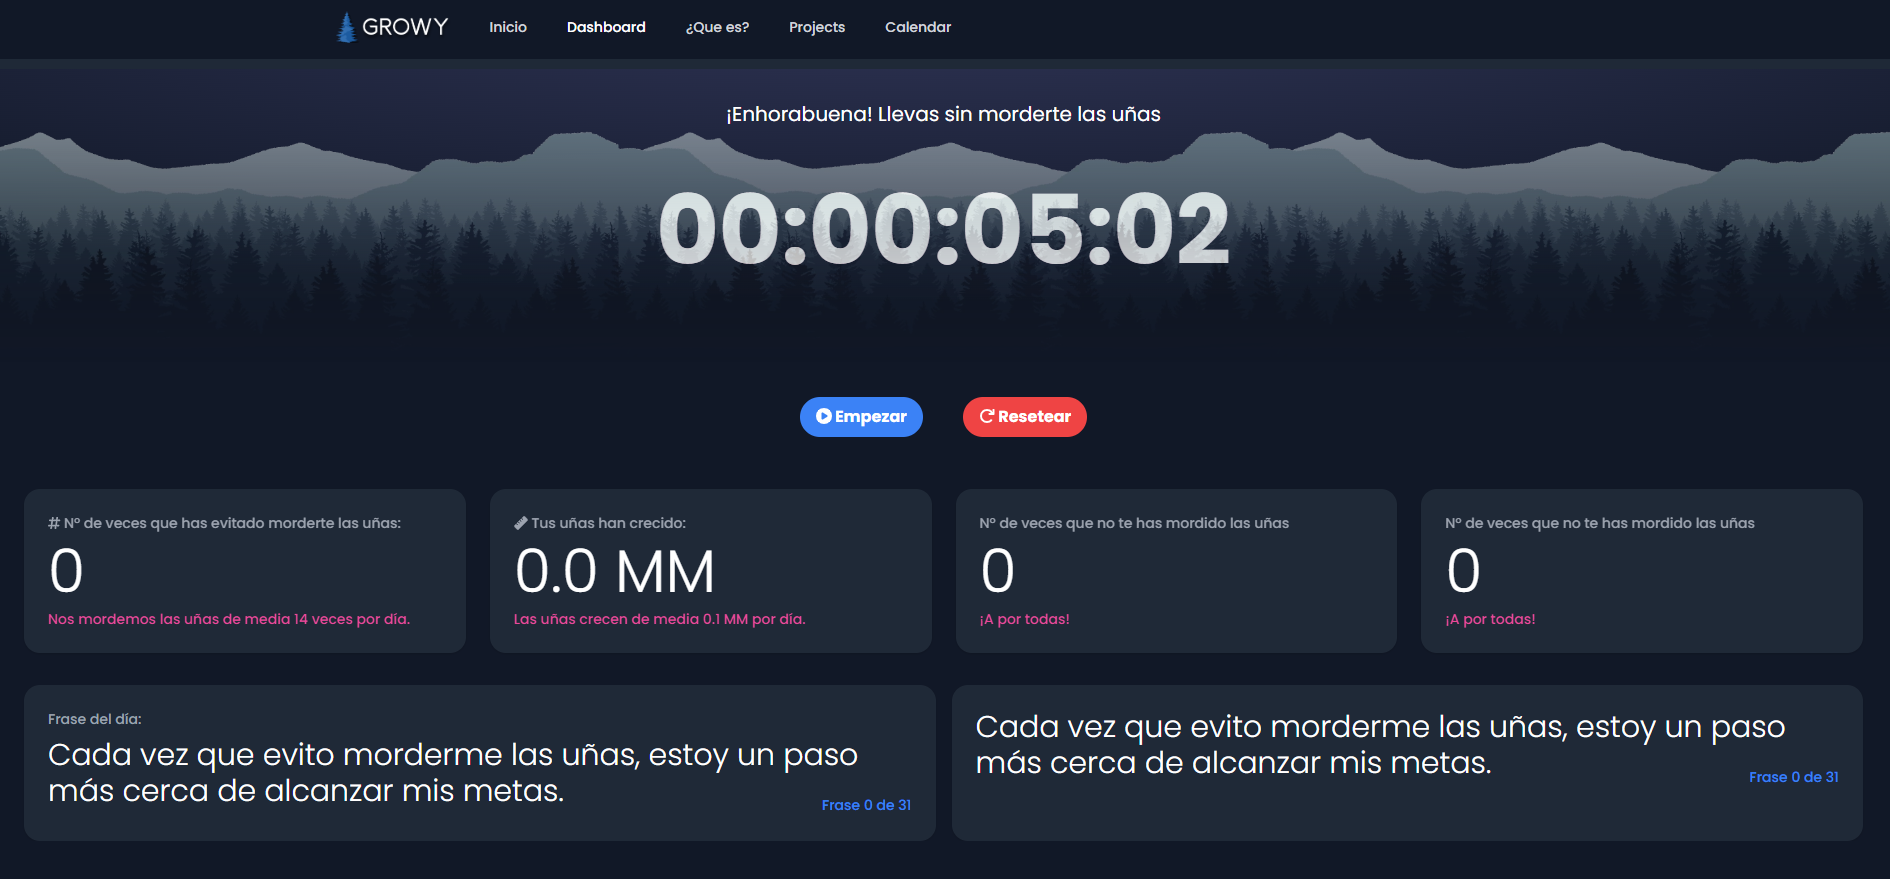
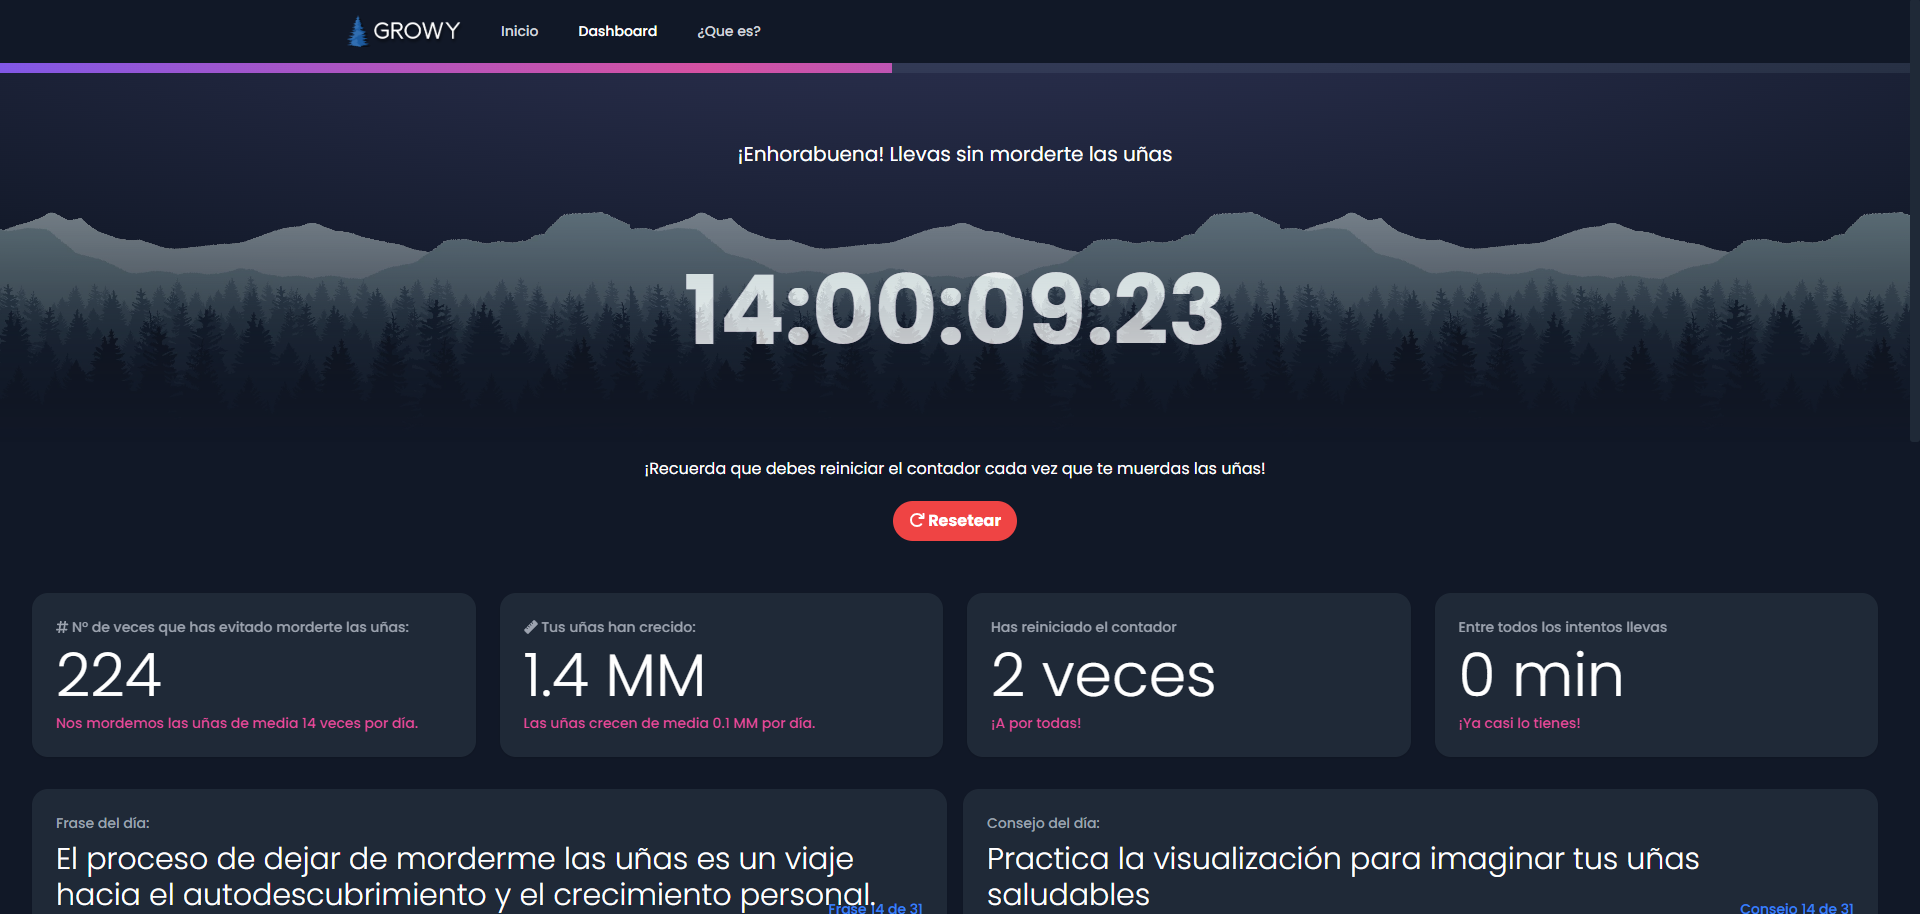
More fixes

diff --git a/src/app/components/heroComponent/heroComponent.js b/src/app/components/heroComponent/heroComponent.js
@@ -13,28 +13,6 @@ export default function HeroComponent() {
               <a href="https://pagedone.io/" className="flex items-center">
                 <img className='h-9' src='/assets/logo.png' />
               </a>
-              <button
-                data-collapse-toggle="navbar"
-                type="button"
-                className="inline-flex items-center p-2 ml-3 text-sm text-gray-500 rounded-lg lg:hidden hover:bg-gray-100 focus:outline-none focus:ring-2 focus:ring-gray-200"
-                aria-controls="navbar-default"
-                aria-expanded="false"
-              >
-                <span className="sr-only">Open main menu</span>
-                <svg
-                  className="w-6 h-6"
-                  aria-hidden="true"
-                  fill="currentColor"
-                  viewBox="0 0 20 20"
-                  xmlns="http://www.w3.org/2000/svg"
-                >
-                  <path
-                    fillRule="evenodd"
-                    d="M3 5a1 1 0 011-1h12a1 1 0 110 2H4a1 1 0 01-1-1zM3 10a1 1 0 011-1h12a1 1 0 110 2H4a1 1 0 01-1-1zM3 15a1 1 0 011-1h12a1 1 0 110 2H4a1 1 0 01-1-1z"
-                    clipRule="evenodd"
-                  ></path>
-                </svg>
-              </button>
             </div>
             <div
               className="hidden w-full lg:flex justify-between max-lg:bg-white py-5 max-lg:mt-1 max-lg:px-4 max-lg:shadow-lg max-lg:shadow-gray-200 max-lg:h-auto max-lg:overflow-auto transition-all duration-500 delay-200 "

diff --git a/src/app/components/counterComponent/counterComponent.js b/src/app/components/counterComponent/counterComponent.js
@@ -38,13 +38,14 @@ export default function CounterComponent() {
     setCounterStarted(true);
     window.location.reload();
   };
+
   const handleReset = () => {
     const elapsedTime = Math.floor((currentTime - new Date(startTime)) / 1000);
     const timesRestarted = localStorage.getItem("timesRestarted") || 0;
     localStorage.setItem("timesRestarted", parseInt(timesRestarted) + 1);
     const totalElapsedTime = localStorage.getItem("totalElapsedTime") || 0;
-    localStorage.setItem("totalElapsedTime", parseInt(totalElapsedTime) + elapsedTime);
-    const minutesElapsed = Math.floor(elapsedTime / 60);
+    const hoursElapsed = Math.floor(elapsedTime / 3600);
+    localStorage.setItem("totalElapsedTime", parseInt(totalElapsedTime) + hoursElapsed);
     setStartTime(null);
     localStorage.removeItem("startTime");
     setCounterStarted(false);

diff --git a/src/app/dashboard/components/stats/statsComponent.js b/src/app/dashboard/components/stats/statsComponent.js
@@ -11,7 +11,7 @@ export default function StatsComponent() {
   );
 
   const [elapsedTime, setElapsedTime] = useState(
-    typeof window !== "undefined" ? localStorage.getItem("elapsedTime") || 0 : 0
+    typeof window !== "undefined" ? localStorage.getItem("totalElapsedTime") || 0 : 0
   );
     
   const calcularVeces = () => {
@@ -101,7 +101,7 @@ export default function StatsComponent() {
               </dt>
 
               <dd className="text-5xl font-light md:text-6xl dark:text-white">
-                {elapsedTime} min
+                {elapsedTime} h
               </dd>
 
               <dd className="flex items-center space-x-1 text-sm font-medium text-pink-500">

diff --git a/src/app/components/aboutUsComponent/aboutUsComponent.js b/src/app/components/aboutUsComponent/aboutUsComponent.js
@@ -25,6 +25,7 @@ export default function aboutUsComponent() {
                   />
         </div>
         <div className="">
+            <br/>
             <img className="w-90 rounded-lg" src="https://i.ibb.co/3Bq0vjJ/me-735ddc8c35966ca68eeb-1-1.jpg" alt="office content 1" />
         </div>
     </div>
